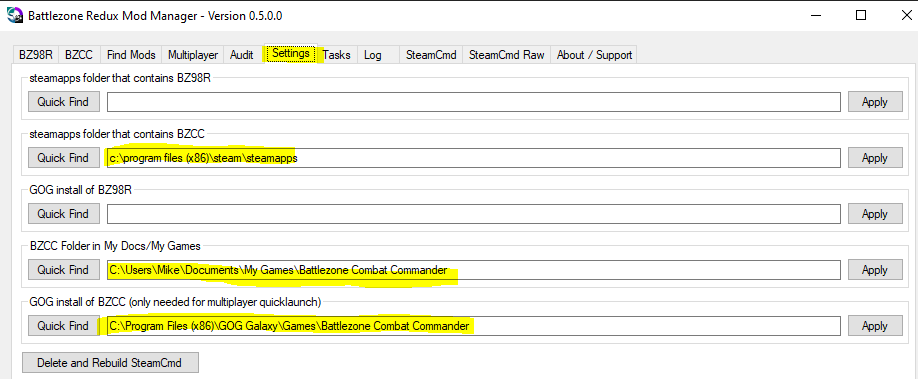
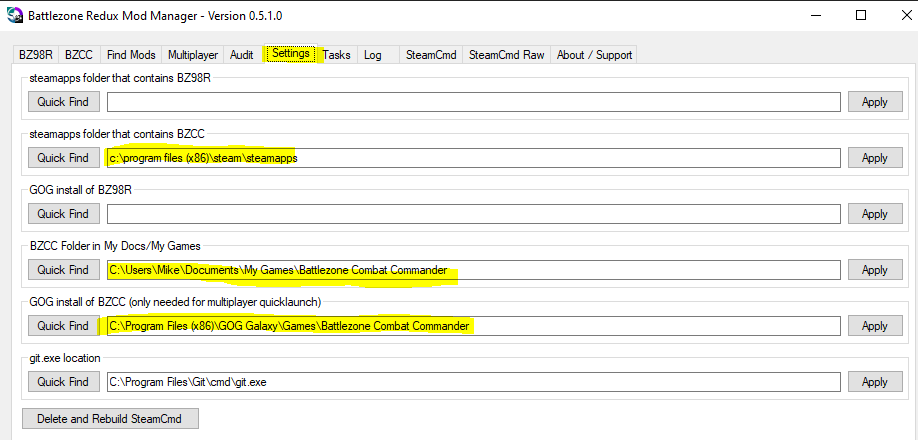
Updated Readme with latest version of Mod Manager / Git install instructions.

diff --git a/README.md b/README.md
@@ -6,7 +6,7 @@
 
 	https://github.com/Nielk1/Battlezone-Redux-Mod-Manager/releases
 
-1. Following the setup instructions for BZRMM - open `BZRModManager.exe` and select the `Settings` tab. Make sure to set the install location for BZCC (either GOG or Steam) and set the `My Docs/My Games` folder location 
+1. Following the setup instructions for BZRMM - open `BZRModManager.exe` and select the `Settings` tab. Make sure to set the install location for BZCC (either GOG or Steam) and set the `My Docs/My Games` folder location. If you don't have Git installed, download it here. (https://git-scm.com/downloads) 
 ![](docs/BZRMM_Settings.PNG)
 
 1. On the BZCC tab, paste the github url for FER (https://github.com/BlackDragonN001/FERemastered.git) into the `Mod URL` field and click download. If a Branch Select window pops up, select "master". (This will take a long time to download, See the `Tasks` tab to watch the current progress)
